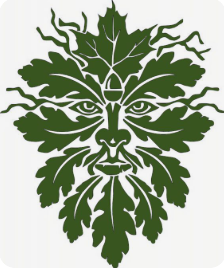
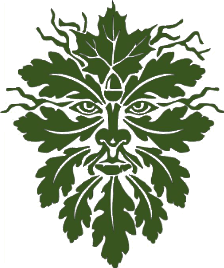
Update README.md layout and enhance image display; modify greenMan.png

diff --git a/README.md b/README.md
@@ -1,10 +1,8 @@
 # Green Man
 
-![GreenMan](greenMan.png)
-
-Green Man is a local Linux desktop assistant that connects to a local Ollama server and helps you interact with your desktop, files, and applications through a simple graphical interface.
-
-It is designed for privacy-conscious, local-first workflows. The assistant runs on your machine, keeps file access inside a selected workspace, and requires explicit approval before desktop actions, file writes, or shell commands are executed.
+|                         |                                |
+|-------------------------|--------------------------------|
+|<img src="greenMan.png" alt="Green Man" width="600">|Green Man is a local Linux desktop assistant that connects to a local Ollama server and helps you interact with your desktop, files, and applications through a simple graphical interface.  It is designed for privacy-conscious, local-first workflows. The assistant runs on your machine, keeps file access inside a selected workspace, and requires explicit approval before desktop actions, file writes, or shell commands are executed. |
 
 ## Features
 
@@ -192,21 +190,24 @@ downloading a Vosk model and placing its extracted folder at that path.
 2. Select an assistant mode:
    - Questions only
    - Screenshot
-   - Desktop control
-     On Wayland, **Screenshot** requests screen-capture access only; **Desktop
+   - Desktop control (Note that this section is constantly being updated with new capabilities, so if something seems to not work, please use the followchart below.)
+
+      - On Wayland, **Screenshot** requests screen-capture access only; **Desktop
      control** also requests pointer and keyboard access.
-     Use **list_windows** to locate windows by application and title, including
-     windows behind Green Man. Use **activate_window** to bring one forward,
+      - Use **list_windows** to locate windows by application and title, including
+     windows behind Green Man. 
+      - Use **activate_window** to bring one forward,
      **close_named_window** to close it, and **list_applications** /
      **launch_application** to open an installed desktop app. Green Man shows the
      resolved window or app in its approval dialog before activation, closing, or
-     launch. For controls inside a window, activate it first, then use the fresh
+     launch. 
+      - For controls inside a window, activate it first, then use the fresh
      screenshot for clicks and typing. A close request is verified by checking
      whether the title is still in the accessible window list; that does not prove
      the entire application process has exited. Screenshots after visual clicks
      and typing are saved to
-     `~/.cache/greenman/last-desktop-verification.jpg`; desktop screenshots may
-     contain private information.
+     `~/.cache/greenman/last-desktop-verification.jpg`; **desktop screenshots may
+     contain private information.**
 
      ```mermaid
      flowchart TD
